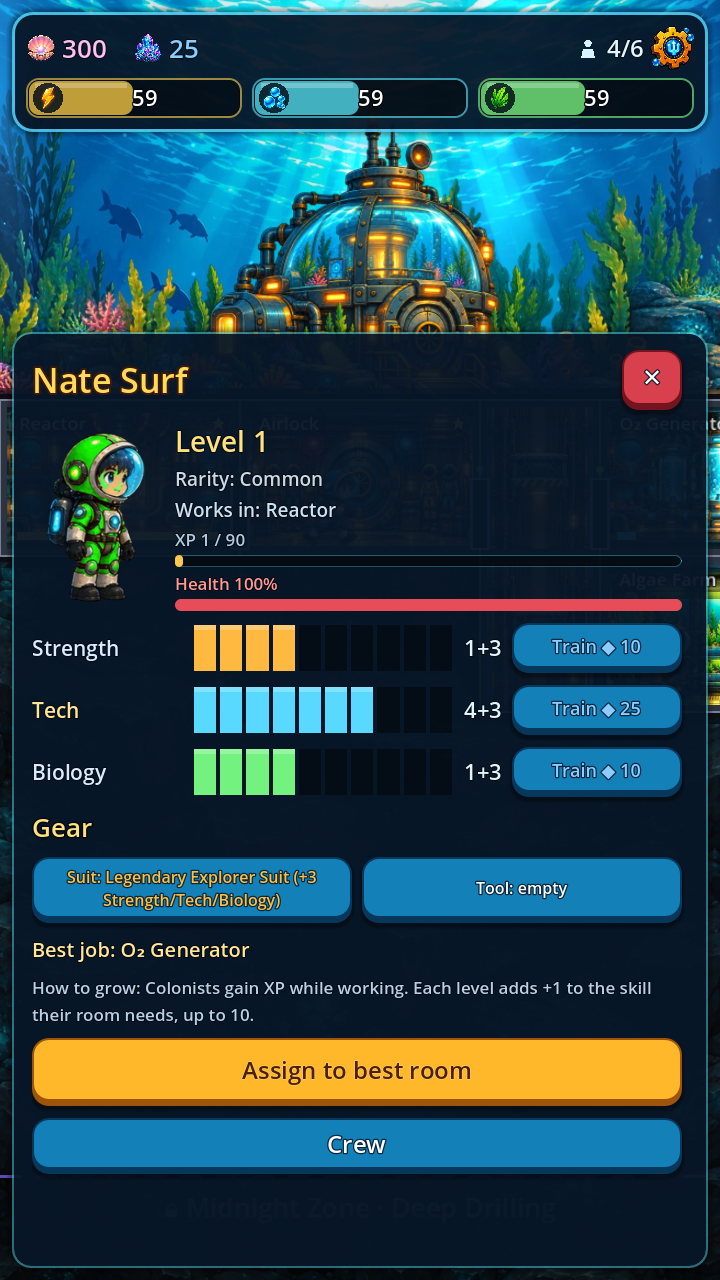
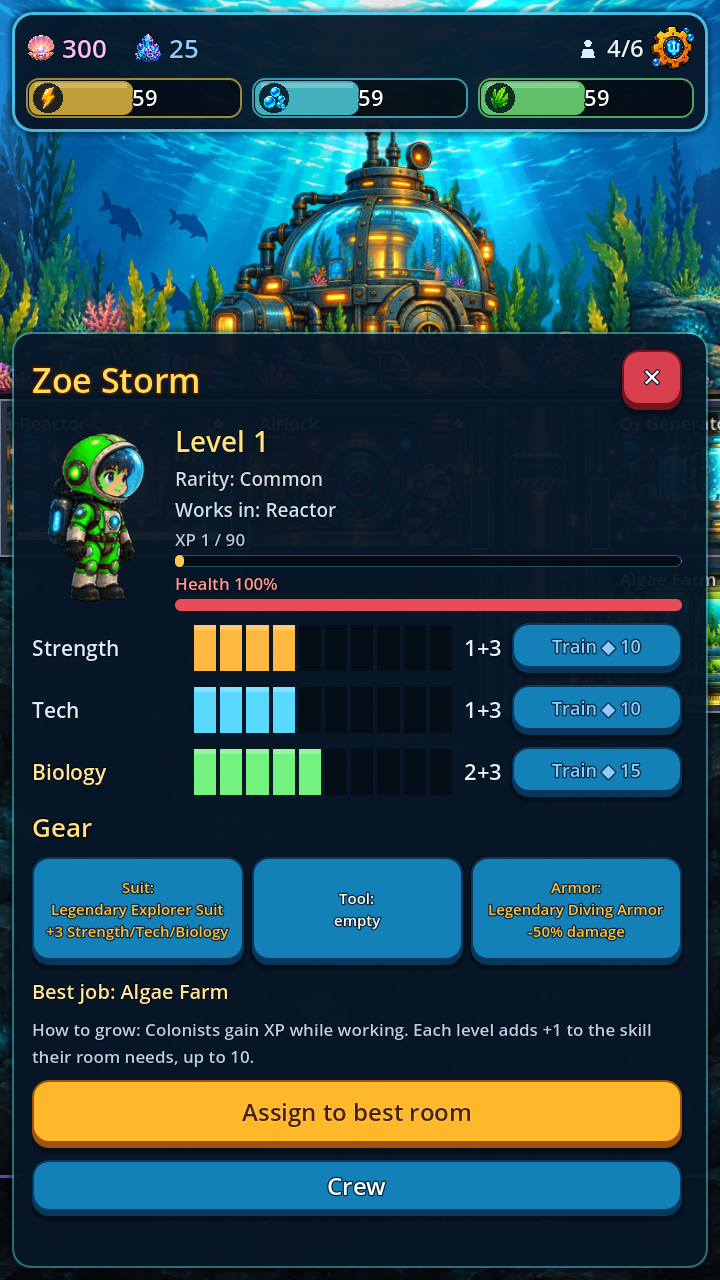
Броня: третий слот снаряжения, снижает урон от бед и в экспедициях
Claude-Session: https://claude.ai/code/session_01Gzv6rseeD6rLRgwoFsQ4fS

diff --git a/docs/SCREENSHOTS.md b/docs/SCREENSHOTS.md
@@ -18,7 +18,7 @@
 
 1. **Research Lab** — отсек 16:10, как остальные: `underwater research laboratory, glowing specimen tanks, microscopes, holographic screens, purple light, no people`.
 2. **Портрет командира Рейес** (квадрат, прозрачный фон): `portrait of Commander Reyes, confident woman in her 40s, navy captain uniform with trident emblem, diving helmet under arm, friendly but tough`.
-3. **Иконки 9 предметов** одним листом, прозрачный фон: wrench, harpoon, welding torch, bio scanner, coral knife, reactor suit (orange), engineer suit (blue), medic suit (white-red), explorer suit (gold).
+3. **Иконки 12 предметов** одним листом, прозрачный фон: wrench, harpoon, welding torch, bio scanner, coral knife, reactor suit (orange), engineer suit (blue), medic suit (white-red), explorer suit (gold), diving armor (heavy brass plates), shark mesh (chainmail vest), heat shield plate (glowing red chest plate).
 4. **Иконка науки** (как иконка кристалла): `glowing purple science flask with bubbles`.
 5. **Кубки** бронзовый / серебряный / золотой — три отдельные иконки.
 6. **Корабль торговца** (сбоку, смотрит влево, прозрачный фон): `green merchant submarine with cargo nets, lanterns and a shop sign`.
